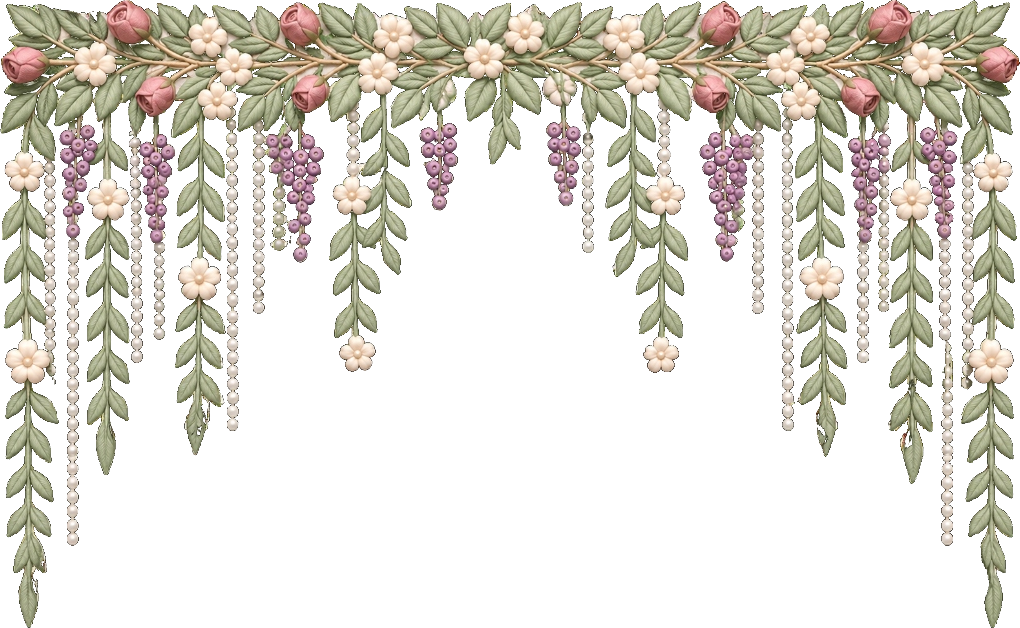
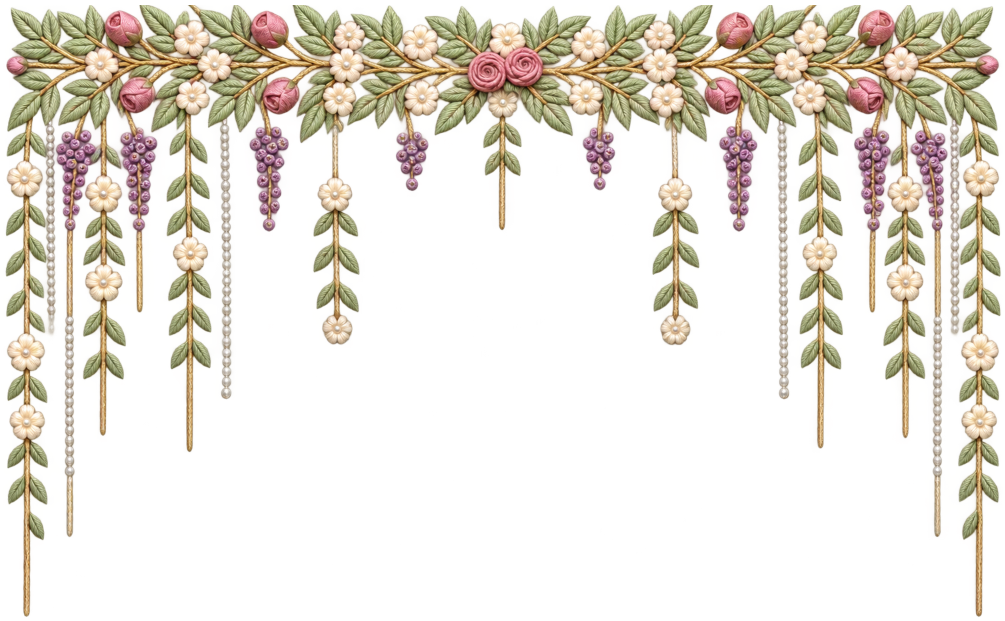
Fix venue garland cutoff, add floral arch to Timeline section, and update 1st page to animated SWIPE UP indicator

diff --git a/src/components/TimelineSection.tsx b/src/components/TimelineSection.tsx
@@ -109,78 +109,98 @@ export function TimelineSection() {
   return (
     <section
       id="day-program"
-      className="pt-6 sm:pt-10 pb-12 md:pb-16 px-4 relative z-20 overflow-hidden bg-transparent"
+      className="pt-6 sm:pt-10 pb-12 md:pb-16 px-3 sm:px-4 relative z-20 overflow-hidden bg-transparent"
     >
       <div className="relative max-w-4xl mx-auto">
-        <motion.div
-          initial={{ opacity: 0, y: 20 }}
-          whileInView={{ opacity: 1, y: 0 }}
-          viewport={{ once: true }}
-          transition={{ duration: 0.6 }}
-          className="text-center mb-10 md:mb-14"
-        >
-          <h2 className="font-display text-2xl sm:text-3xl md:text-4xl text-sage-dark font-normal tracking-wide">
-            Timeline
-          </h2>
-          <span className="section-rule !my-2.5" />
-          <p className="section-eyebrow">The Wedding Celebrations</p>
-        </motion.div>
-
-        <div ref={timelineRef} className="relative mx-auto max-w-2xl px-2 sm:px-4">
-          {/* Dashed Vertical Needle Stitches Line */}
-          <div
-            className="absolute top-3 bottom-3 left-[36%] sm:left-[42%] md:left-[44%] w-[3px] -translate-x-1/2 pointer-events-none select-none"
-            aria-hidden="true"
-          >
-            <div
-              className="w-full h-full"
-              style={{
-                backgroundImage:
-                  "repeating-linear-gradient(to bottom, hsl(var(--olive)) 0px, hsl(var(--olive)) 4px, transparent 4px, transparent 12px)",
-              }}
-            />
+        {/* User-Uploaded Embroidered Floral Arch Framing the Timeline */}
+        <div className="relative w-full max-w-md sm:max-w-lg md:max-w-xl mx-auto">
+          {/* Background Arch Graphic */}
+          <div className="absolute top-0 inset-x-0 w-full pointer-events-none select-none z-0 flex justify-center">
             <motion.img
-              src={MEDIA.timelinePearlLarge}
-              alt=""
-              aria-hidden="true"
-              style={{ top: pearlTop }}
-              className="absolute left-1/2 z-20 -translate-x-1/2 -translate-y-1/2 w-8 h-8 sm:w-10 sm:h-10 md:w-12 md:h-12 rounded-full object-contain max-w-none filter drop-shadow"
+              src={MEDIA.timelineFloralArch}
+              alt="Timeline Floral Arch Frame"
+              initial={{ opacity: 0, scale: 0.96 }}
+              whileInView={{ opacity: 1, scale: 1 }}
+              viewport={{ once: true }}
+              transition={{ duration: 0.7 }}
+              className="w-full max-w-sm sm:max-w-md md:max-w-lg h-auto block drop-shadow-sm opacity-95"
             />
           </div>
 
-          {/* 2-Column Events Layout */}
-          <div className="relative space-y-10 sm:space-y-14">
-            {events.map((item, idx) => (
-              <motion.div
-                key={idx}
-                initial={{ opacity: 0, y: 14 }}
-                whileInView={{ opacity: 1, y: 0 }}
-                viewport={{ once: true }}
-                transition={{ duration: 0.5, delay: 0.04 + idx * 0.04 }}
-                className="relative grid grid-cols-[32%_1fr] sm:grid-cols-[38%_1fr] md:grid-cols-[40%_1fr] items-center gap-3 sm:gap-6 md:gap-8"
-              >
-                <img
-                  src={item.image}
-                  alt={item.alt}
-                  loading="lazy"
-                  className="w-full h-auto justify-self-center select-none pointer-events-none max-w-[80px] sm:max-w-[120px] md:max-w-[150px] object-contain"
-                />
-                <div className="pl-4 sm:pl-8 md:pl-10">
-                  <span className="font-body text-[10px] sm:text-[11px] uppercase tracking-[0.18em] text-gold-dark block mb-0.5">
-                    {item.date}
-                  </span>
-                  <p className="font-display font-normal text-sm sm:text-base md:text-lg text-sage-dark tracking-wide">
-                    {item.time}
-                  </p>
-                  <h3 className="font-body uppercase tracking-[0.14em] text-[11px] sm:text-xs text-sage-dark font-medium mt-0.5">
-                    {item.title}
-                  </h3>
-                  <p className="font-body italic text-[11px] sm:text-xs text-sage-dark/75 mt-0.5 leading-relaxed">
-                    {item.note}
-                  </p>
-                </div>
-              </motion.div>
-            ))}
+          {/* Heading nestled within the top curve of the Arch */}
+          <motion.div
+            initial={{ opacity: 0, y: 14 }}
+            whileInView={{ opacity: 1, y: 0 }}
+            viewport={{ once: true }}
+            transition={{ duration: 0.6 }}
+            className="relative z-10 text-center pt-8 sm:pt-12 md:pt-14 mb-10 sm:mb-14"
+          >
+            <h2 className="font-display text-2xl sm:text-3xl md:text-4xl text-sage-dark font-normal tracking-wide">
+              Timeline
+            </h2>
+            <span className="section-rule !my-2.5" />
+            <p className="section-eyebrow text-[9.5px] sm:text-xs tracking-[0.22em]">
+              The Wedding Celebrations
+            </p>
+          </motion.div>
+
+          {/* 2-Column Events Layout Starting Inside the Arch */}
+          <div ref={timelineRef} className="relative z-10 mx-auto max-w-2xl px-2 sm:px-6">
+            {/* Dashed Vertical Needle Stitches Line */}
+            <div
+              className="absolute top-3 bottom-3 left-[36%] sm:left-[42%] md:left-[44%] w-[3px] -translate-x-1/2 pointer-events-none select-none"
+              aria-hidden="true"
+            >
+              <div
+                className="w-full h-full"
+                style={{
+                  backgroundImage:
+                    "repeating-linear-gradient(to bottom, hsl(var(--olive)) 0px, hsl(var(--olive)) 4px, transparent 4px, transparent 12px)",
+                }}
+              />
+              <motion.img
+                src={MEDIA.timelinePearlLarge}
+                alt=""
+                aria-hidden="true"
+                style={{ top: pearlTop }}
+                className="absolute left-1/2 z-20 -translate-x-1/2 -translate-y-1/2 w-8 h-8 sm:w-10 sm:h-10 md:w-12 md:h-12 rounded-full object-contain max-w-none filter drop-shadow"
+              />
+            </div>
+
+            {/* Events */}
+            <div className="relative space-y-10 sm:space-y-14">
+              {events.map((item, idx) => (
+                <motion.div
+                  key={idx}
+                  initial={{ opacity: 0, y: 14 }}
+                  whileInView={{ opacity: 1, y: 0 }}
+                  viewport={{ once: true }}
+                  transition={{ duration: 0.5, delay: 0.04 + idx * 0.04 }}
+                  className="relative grid grid-cols-[32%_1fr] sm:grid-cols-[38%_1fr] md:grid-cols-[40%_1fr] items-center gap-3 sm:gap-6 md:gap-8"
+                >
+                  <img
+                    src={item.image}
+                    alt={item.alt}
+                    loading="lazy"
+                    className="w-full h-auto justify-self-center select-none pointer-events-none max-w-[80px] sm:max-w-[120px] md:max-w-[150px] object-contain drop-shadow-sm"
+                  />
+                  <div className="pl-4 sm:pl-8 md:pl-10">
+                    <span className="font-body text-[10px] sm:text-[11px] uppercase tracking-[0.18em] text-gold-dark block mb-0.5">
+                      {item.date}
+                    </span>
+                    <p className="font-display font-normal text-sm sm:text-base md:text-lg text-sage-dark tracking-wide">
+                      {item.time}
+                    </p>
+                    <h3 className="font-body uppercase tracking-[0.14em] text-[11px] sm:text-xs text-sage-dark font-medium mt-0.5">
+                      {item.title}
+                    </h3>
+                    <p className="font-body italic text-[11px] sm:text-xs text-sage-dark/75 mt-0.5 leading-relaxed">
+                      {item.note}
+                    </p>
+                  </div>
+                </motion.div>
+              ))}
+            </div>
           </div>
         </div>
 

diff --git a/src/components/IntroHero.tsx b/src/components/IntroHero.tsx
@@ -15,6 +15,23 @@ export function IntroHero({
   const [status, setStatus] = useState<"idle" | "playing" | "done">("idle");
   const [showText, setShowText] = useState(false);
   const videoRef = useRef<HTMLVideoElement>(null);
+  const touchStartY = useRef<number | null>(null);
+
+  const handleTouchStart = (e: React.TouchEvent) => {
+    touchStartY.current = e.touches[0].clientY;
+  };
+
+  const handleTouchEnd = (e: React.TouchEvent) => {
+    if (touchStartY.current === null) return;
+    const diff = touchStartY.current - e.changedTouches[0].clientY;
+    // Swiped up by > 40px
+    if (diff > 40) {
+      setStatus("done");
+      setShowText(true);
+      document.getElementById("countdown")?.scrollIntoView({ behavior: "smooth" });
+    }
+    touchStartY.current = null;
+  };
 
   useEffect(() => {
     if (status === "done") {
@@ -77,6 +94,8 @@ export function IntroHero({
       <section
         className="relative w-full min-h-screen bg-ivory overflow-hidden cursor-pointer"
         onClick={status === "playing" ? handleSkip : undefined}
+        onTouchStart={handleTouchStart}
+        onTouchEnd={handleTouchEnd}
       >
         {/* Permanent Fallback & High-Res Finished Frame */}
         <img
@@ -148,13 +167,13 @@ export function IntroHero({
           </motion.div>
         </div>
 
-        {/* Prominent Interactive Scroll Down Button */}
+        {/* Prominent Interactive Swipe Up Indicator - Exact Reference Design */}
         {(showText || status === "done") && (
           <motion.div
             initial={{ opacity: 0, y: 10 }}
             animate={{ opacity: 1, y: 0 }}
             transition={{ duration: 0.6 }}
-            className="absolute inset-x-0 bottom-5 sm:bottom-7 flex justify-center z-20"
+            className="absolute inset-x-0 bottom-4 sm:bottom-6 flex justify-center z-20 pointer-events-auto"
           >
             <button
               type="button"
@@ -166,19 +185,43 @@ export function IntroHero({
                   document.getElementById("countdown")?.scrollIntoView({ behavior: "smooth" });
                 }, 50);
               }}
-              className="group flex flex-col items-center gap-1.5 px-5 py-2 rounded-full bg-ivory/90 backdrop-blur-sm border border-[#b88e44]/60 shadow-md hover:bg-ivory transition-all cursor-pointer"
-              aria-label="Scroll down to invitation details"
+              className="group flex flex-col items-center gap-1 px-4 py-2 bg-transparent cursor-pointer select-none transition-transform active:scale-95"
+              aria-label="Swipe up to explore invitation"
             >
-              <span className="font-serif text-[10px] sm:text-xs tracking-[0.28em] uppercase text-[#1e3a2f] font-semibold">
-                Scroll Down
-              </span>
-              <motion.span
-                animate={{ y: [0, 4, 0] }}
-                transition={{ duration: 1.5, repeat: Infinity, ease: "easeInOut" }}
-                className="text-[#b88e44] text-sm leading-none font-bold"
+              {/* Stacked Double Chevron Up Arrow */}
+              <motion.div
+                animate={{ y: [0, -6, 0], opacity: [0.75, 1, 0.75] }}
+                transition={{ duration: 1.8, repeat: Infinity, ease: "easeInOut" }}
+                className="flex flex-col items-center -space-y-1.5 text-[#544d2e] drop-shadow-sm"
               >
-                &#8595;
-              </motion.span>
+                <svg
+                  className="w-5 h-5 sm:w-6 sm:h-6"
+                  viewBox="0 0 24 24"
+                  fill="none"
+                  stroke="currentColor"
+                  strokeWidth="3.2"
+                  strokeLinecap="round"
+                  strokeLinejoin="round"
+                >
+                  <path d="M18 15l-6-6-6 6" />
+                </svg>
+                <svg
+                  className="w-5 h-5 sm:w-6 sm:h-6"
+                  viewBox="0 0 24 24"
+                  fill="none"
+                  stroke="currentColor"
+                  strokeWidth="3.2"
+                  strokeLinecap="round"
+                  strokeLinejoin="round"
+                >
+                  <path d="M18 15l-6-6-6 6" />
+                </svg>
+              </motion.div>
+
+              {/* SWIPE UP Serif Text */}
+              <span className="font-serif text-[11px] sm:text-xs tracking-[0.38em] uppercase text-[#34301d] font-bold drop-shadow-sm mt-0.5">
+                SWIPE UP
+              </span>
             </button>
           </motion.div>
         )}

diff --git a/src/components/WeddingEventsSection.tsx b/src/components/WeddingEventsSection.tsx
@@ -86,7 +86,7 @@ export function WeddingEventsSection() {
 
           {/* User-Uploaded Floral Hanging Garland - Seamlessly Attached to Cropped Frame Bottom */}
           <motion.div
-            className="relative -mt-[13.5%] w-full mx-auto pointer-events-none select-none z-20"
+            className="relative -mt-[18%] sm:-mt-[20%] w-full mx-auto pointer-events-none select-none z-20"
             style={{ transformOrigin: "50% 0%" }}
             animate={{
               rotate: [-1.4, 1.4, -1.4],

diff --git a/src/components/FamilySection.tsx b/src/components/FamilySection.tsx
@@ -16,7 +16,7 @@ function renderNonBreakingNames(names: string[], separator: string = "·") {
 
 export function FamilySection() {
   return (
-    <section id="family-blessings" className="bg-ivory -mt-20 sm:-mt-28 md:-mt-36 pt-6 pb-16 md:pb-24 relative z-20 overflow-hidden">
+    <section id="family-blessings" className="bg-ivory pt-8 sm:pt-12 pb-16 md:pb-24 relative z-10 overflow-hidden">
       <div className="max-w-4xl mx-auto px-4 sm:px-6">
         {/* Section Heading */}
         <motion.div

diff --git a/src/data/weddingConfig.ts b/src/data/weddingConfig.ts
@@ -226,6 +226,7 @@ export const MEDIA = {
   timelineDisco: "/media/timeline-disco-v2.png",
   timelineChampagne: "/media/timeline-champagne-v2.png",
   timelinePearlLarge: "/media/timeline-pearl-large.png",
+  timelineFloralArch: "/media/timeline-floral-arch.png",
   recoveryDayDivider: "/media/recovery-day-divider.png",
   recoveryVenue: "/media/recovery-venue-v2.png",
   giftFrame: "/media/gift-frame-v3.png",
